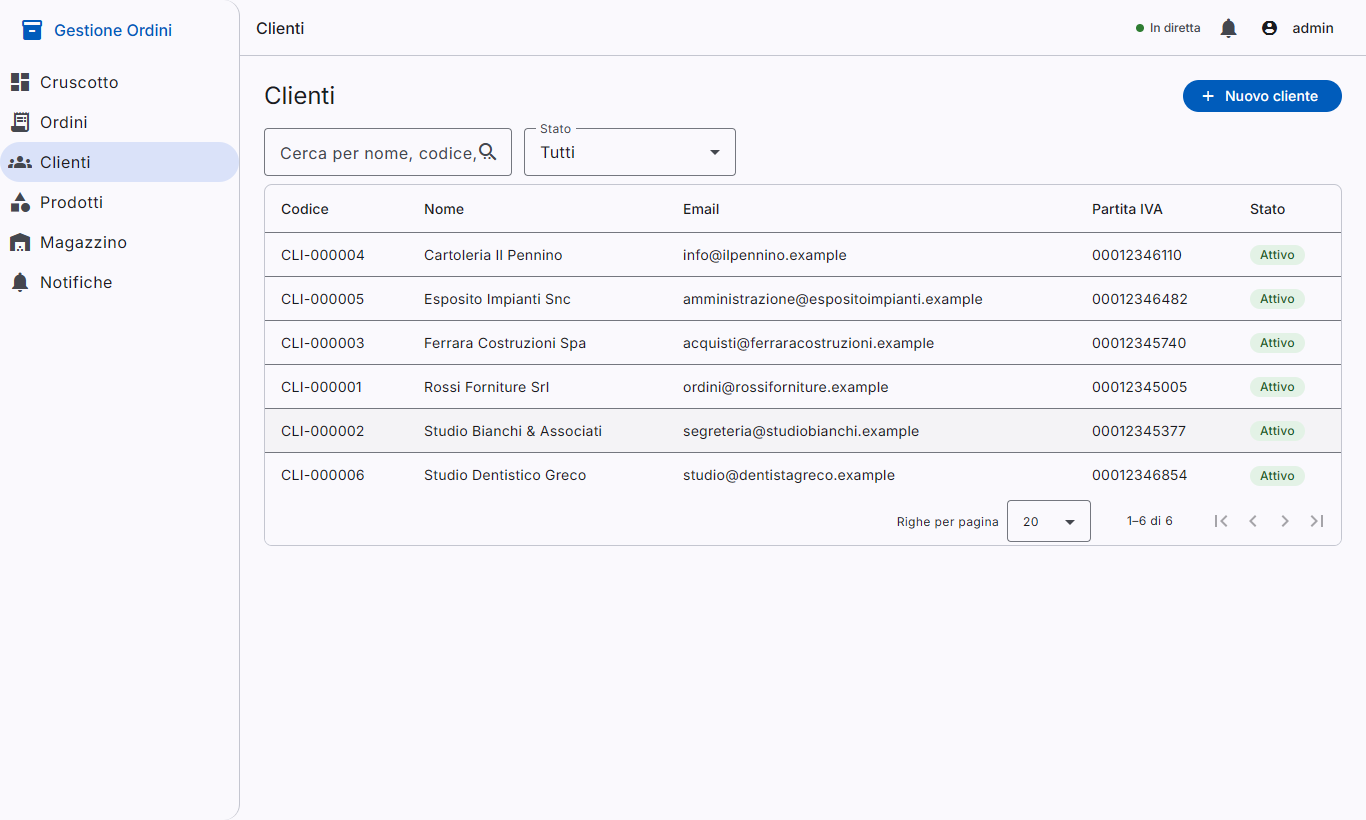
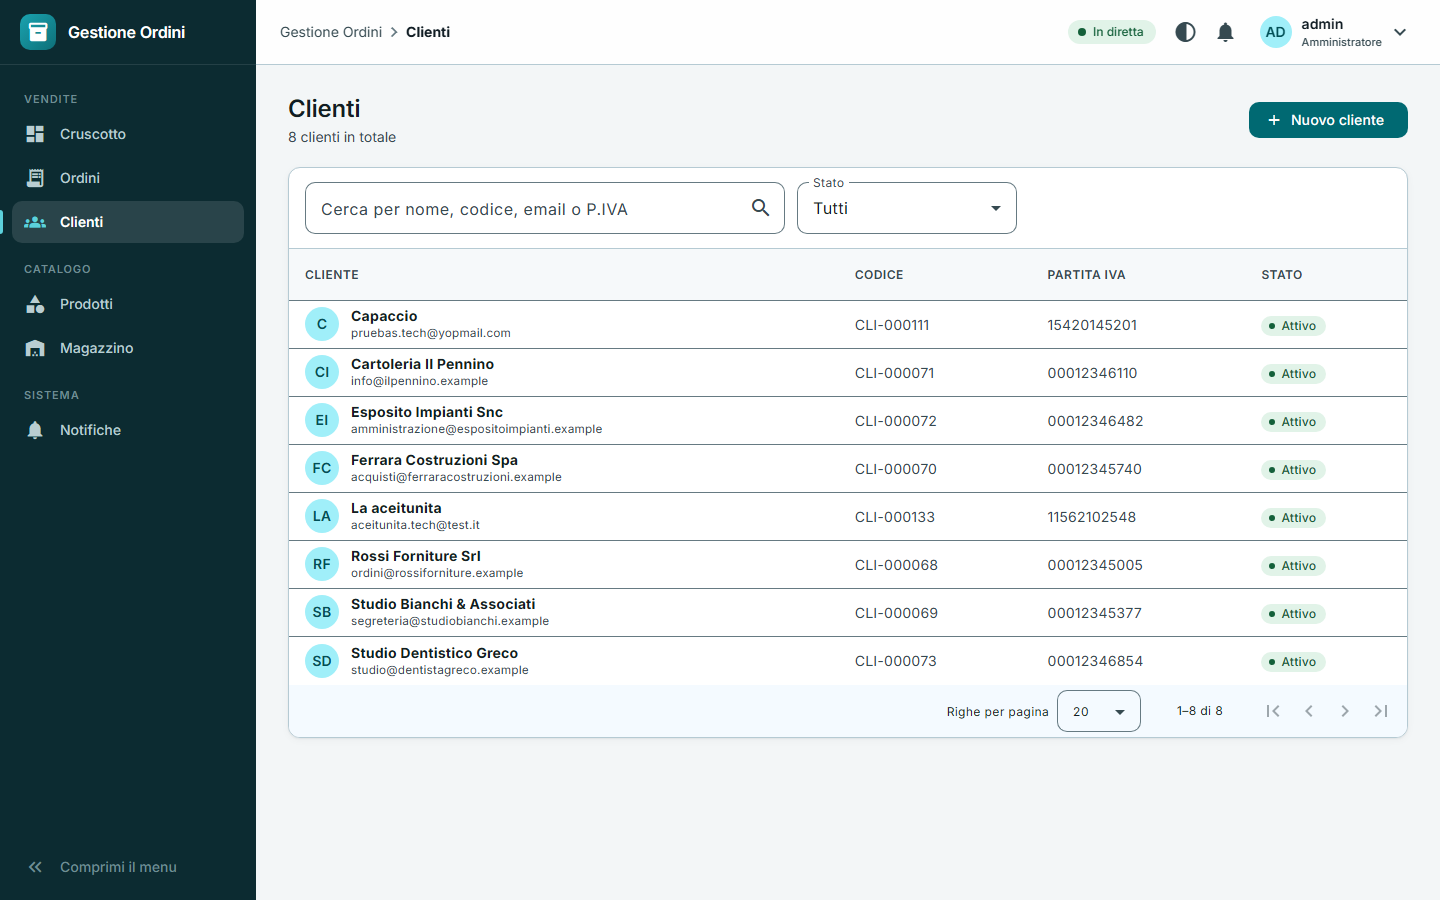
docs: nuove immagini del README e correzione di una classe CSS in conflitto (#39)

diff --git a/web/src/app/features/customers/customer-list.ts b/web/src/app/features/customers/customer-list.ts
@@ -70,7 +70,7 @@ import { TableSkeleton } from '../../shared/table-skeleton';
           <ng-container matColumnDef="name">
             <th mat-header-cell *matHeaderCellDef>Cliente</th>
             <td mat-cell *matCellDef="let c">
-              <span class="who">
+              <span class="cell-who">
                 <span class="avatar-sm" aria-hidden="true">{{ initials(c.name) }}</span>
                 <span class="stack">
                   <strong>{{ c.name }}</strong>

diff --git a/web/src/styles.scss b/web/src/styles.scss
@@ -277,7 +277,7 @@ body {
   }
 }
 
-.who {
+.cell-who {
   display: inline-flex;
   align-items: center;
   gap: 12px;

diff --git a/CHANGELOG.md b/CHANGELOG.md
@@ -5,7 +5,7 @@ Il formato segue [Keep a Changelog](https://keepachangelog.com/it/); il versiona
 ## [Non rilasciato]
 
 ### Modificato
-- **Interfaccia rinnovata** (ADR 0022, prima parte dell'incidenza #39): sistema di design con palette petrolio e token, tema chiaro, scuro o del sistema, menu laterale scuro comprimibile (cassetto sui telefoni), barra superiore con percorso e utente, accesso a due colonne e un nuovo cruscotto con fascia «da gestire», quote per stato, anello degli ordini, scorte con barre e attività con icone per tipo.
+- **Interfaccia rinnovata** (ADR 0022, incidenza #39): sistema di design con palette petrolio e token, tema chiaro, scuro o del sistema, menu laterale scuro comprimibile (cassetto sui telefoni), barra superiore con percorso e utente, accesso a due colonne e cruscotto con fascia «da gestire», quote per stato, anello degli ordini, scorte e attività con icone. Elenchi con filtri nella scheda, righe segnaposto e stati vuoti; dettaglio ordine con percorso, banner di annullamento, totali e storico a linea del tempo; nuovo ordine con riepilogo fisso; scheda cliente con avatar e indirizzi con icone; collegamento «Vai al contenuto» per la tastiera. Nuove immagini del README.
 
 ## [1.1.0] - 2026-10-22
 
